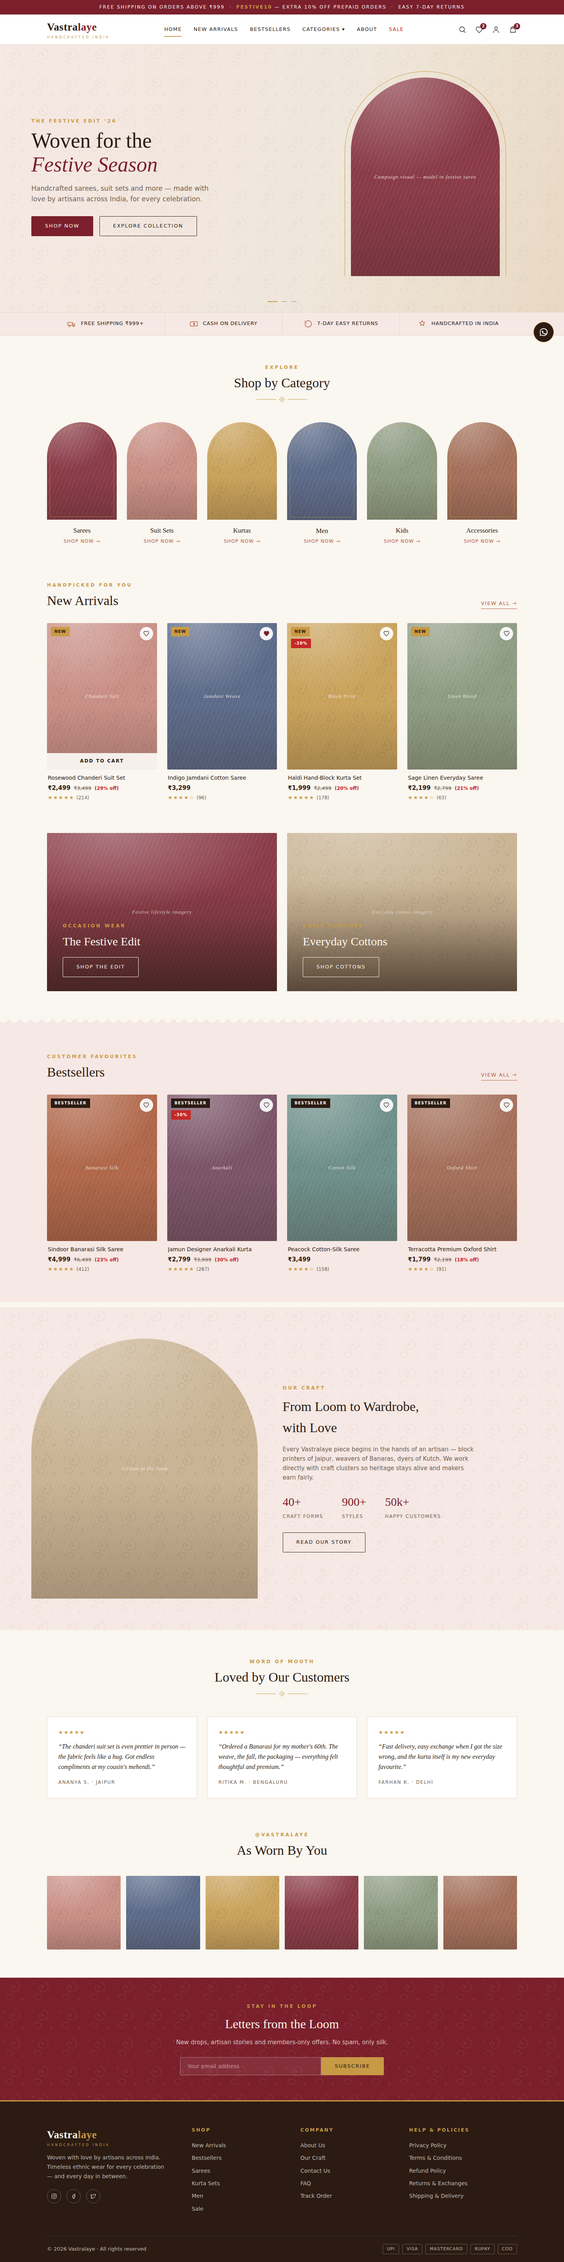
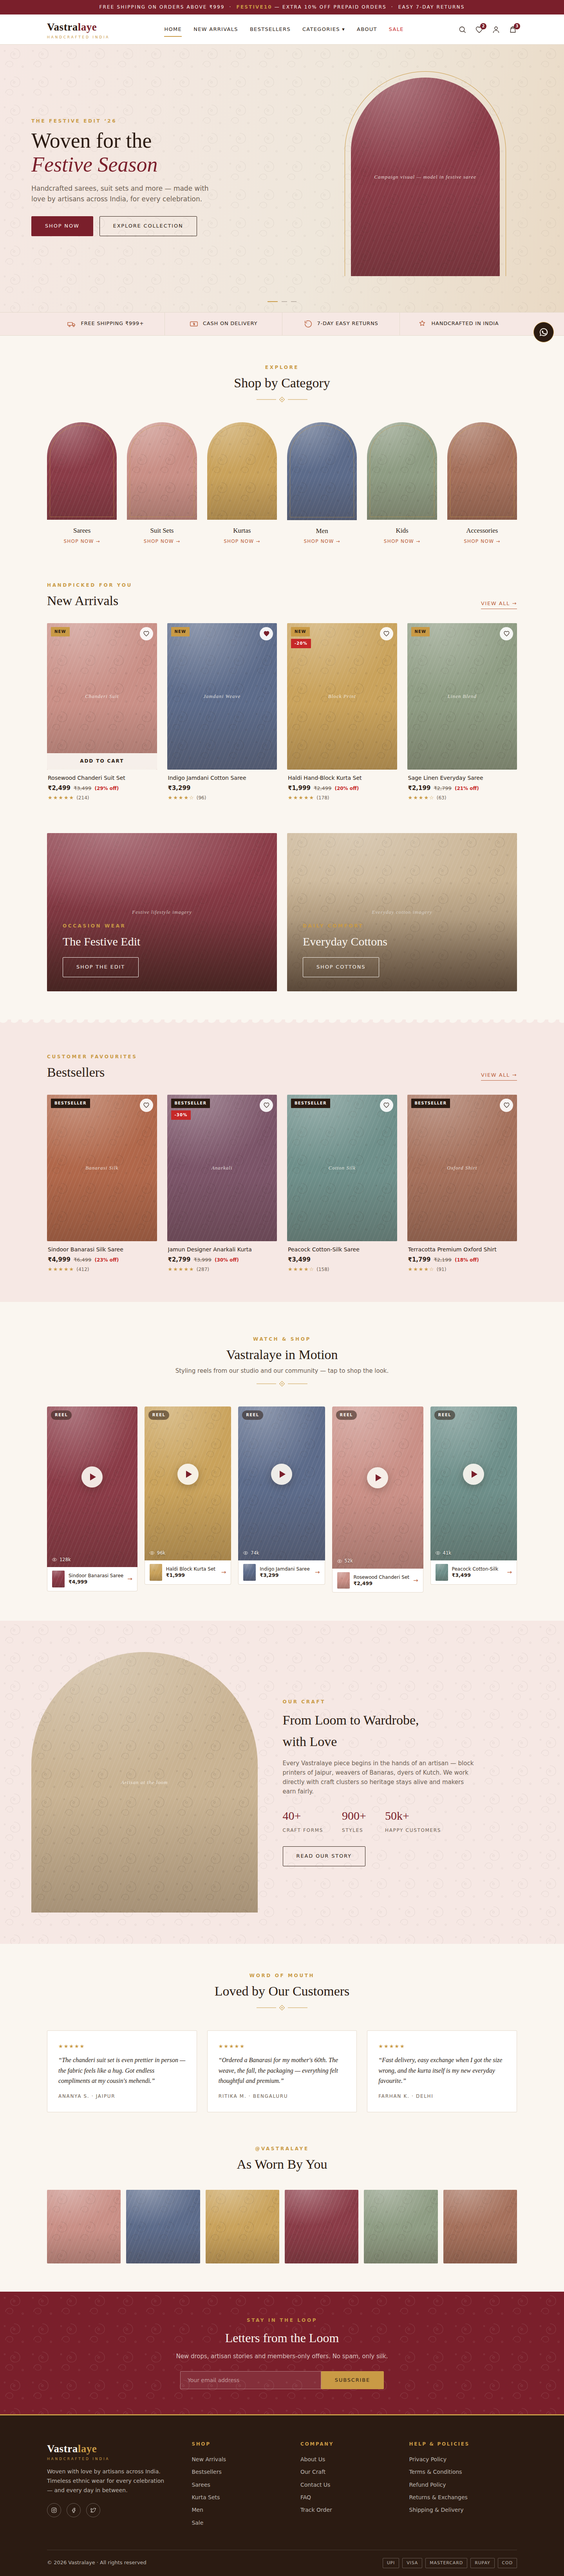
Add shoppable video reels to home and related product videos to PDP design
- design.md: add ReelsSection component spec (9:16 reel cards with play
  button, view count and shoppable product strip; inline video lightbox;
  posters/clips served from the backend's existing product_videos
  storage), insert the reels row into the homepage blueprint, add the
  product-video gallery thumb and the "Watch It Styled" related-video
  strip to the PDP flow, and extend the asset checklist and Phase 2/4
  checklists accordingly.
- Mockups: new reel-card/play-button/video-thumb styles; "Vastralaye in
  Motion" reels section on the homepage; video thumbnail in the PDP
  gallery rail and a "Watch It Styled" video strip before related
  products; refreshed home, product-detail and mobile-home screenshots.

Claude-Session: https://claude.ai/code/session_01MQ194LTsZXuaeNecGoNMBi

diff --git a/design/mockups/pages/home.html b/design/mockups/pages/home.html
@@ -183,6 +183,60 @@
 </section>
 <div class="scallop"></div>
 
+<!-- SHOPPABLE REELS -->
+<section class="section">
+  <div class="container">
+    <div class="section-head">
+      <span class="overline">Watch &amp; shop</span>
+      <h2>Vastralaye in Motion</h2>
+      <p class="sub">Styling reels from our studio and our community — tap to shop the look.</p>
+      <svg class="ornament" viewBox="0 0 130 14" width="130" height="14"><g fill="none" stroke="#C99A45"><line x1="0" y1="7" x2="50" y2="7"/><line x1="80" y1="7" x2="130" y2="7"/><rect x="60.5" y="2.5" width="9" height="9" transform="rotate(45 65 7)"/></g><circle cx="65" cy="7" r="1.5" fill="#C99A45"/></svg>
+    </div>
+    <div class="reel-row">
+      <div class="reel-card">
+        <div class="photo tone-wine reel-media">
+          <span class="reel-chip">Reel</span>
+          <span class="play-btn"></span>
+          <span class="reel-views"><svg viewBox="0 0 24 24"><path d="M2 12s3.5-6.5 10-6.5S22 12 22 12s-3.5 6.5-10 6.5S2 12 2 12z"/><circle cx="12" cy="12" r="2.6"/></svg>128k</span>
+        </div>
+        <div class="reel-prod"><div class="photo tone-wine mini"></div><div class="t">Sindoor Banarasi Saree<b>₹4,999</b></div><span class="go">→</span></div>
+      </div>
+      <div class="reel-card">
+        <div class="photo tone-mustard reel-media">
+          <span class="reel-chip">Reel</span>
+          <span class="play-btn"></span>
+          <span class="reel-views"><svg viewBox="0 0 24 24"><path d="M2 12s3.5-6.5 10-6.5S22 12 22 12s-3.5 6.5-10 6.5S2 12 2 12z"/><circle cx="12" cy="12" r="2.6"/></svg>96k</span>
+        </div>
+        <div class="reel-prod"><div class="photo tone-mustard mini"></div><div class="t">Haldi Block Kurta Set<b>₹1,999</b></div><span class="go">→</span></div>
+      </div>
+      <div class="reel-card">
+        <div class="photo tone-indigo reel-media">
+          <span class="reel-chip">Reel</span>
+          <span class="play-btn"></span>
+          <span class="reel-views"><svg viewBox="0 0 24 24"><path d="M2 12s3.5-6.5 10-6.5S22 12 22 12s-3.5 6.5-10 6.5S2 12 2 12z"/><circle cx="12" cy="12" r="2.6"/></svg>74k</span>
+        </div>
+        <div class="reel-prod"><div class="photo tone-indigo mini"></div><div class="t">Indigo Jamdani Saree<b>₹3,299</b></div><span class="go">→</span></div>
+      </div>
+      <div class="reel-card">
+        <div class="photo tone-rose reel-media">
+          <span class="reel-chip">Reel</span>
+          <span class="play-btn"></span>
+          <span class="reel-views"><svg viewBox="0 0 24 24"><path d="M2 12s3.5-6.5 10-6.5S22 12 22 12s-3.5 6.5-10 6.5S2 12 2 12z"/><circle cx="12" cy="12" r="2.6"/></svg>52k</span>
+        </div>
+        <div class="reel-prod"><div class="photo tone-rose mini"></div><div class="t">Rosewood Chanderi Set<b>₹2,499</b></div><span class="go">→</span></div>
+      </div>
+      <div class="reel-card">
+        <div class="photo tone-teal reel-media">
+          <span class="reel-chip">Reel</span>
+          <span class="play-btn"></span>
+          <span class="reel-views"><svg viewBox="0 0 24 24"><path d="M2 12s3.5-6.5 10-6.5S22 12 22 12s-3.5 6.5-10 6.5S2 12 2 12z"/><circle cx="12" cy="12" r="2.6"/></svg>41k</span>
+        </div>
+        <div class="reel-prod"><div class="photo tone-teal mini"></div><div class="t">Peacock Cotton-Silk<b>₹3,499</b></div><span class="go">→</span></div>
+      </div>
+    </div>
+  </div>
+</section>
+
 <!-- BRAND STORY -->
 <section class="story">
   <div class="container story-inner">

diff --git a/design/mockups/styles.css b/design/mockups/styles.css
@@ -206,6 +206,54 @@ ul { list-style: none; }
 .stars { color: var(--gold); font-size: 13px; letter-spacing: 2px; margin-top: 3px; }
 .stars .cnt { color: var(--muted); font-size: 12px; letter-spacing: 0; margin-left: 5px; }
 
+/* ---------- Shoppable video reels ---------- */
+.reel-row { display: grid; grid-template-columns: repeat(5,1fr); gap: 18px; }
+.reel-row.cols-4 { grid-template-columns: repeat(4,1fr); gap: 22px; }
+.reel-card { position: relative; }
+.reel-media { aspect-ratio: 9/16; border-radius: 4px 4px 0 0; }
+.play-btn {
+  position: absolute; left: 50%; top: 44%; transform: translate(-50%,-50%); z-index: 2;
+  width: 54px; height: 54px; border-radius: 50%; background: rgba(250,246,240,.92);
+  display: flex; align-items: center; justify-content: center;
+  box-shadow: 0 6px 22px rgba(43,27,18,.28);
+}
+.play-btn::after {
+  content: ""; margin-left: 5px;
+  border-left: 15px solid var(--maroon); border-top: 9px solid transparent; border-bottom: 9px solid transparent;
+}
+.reel-chip {
+  position: absolute; top: 10px; left: 10px; z-index: 2;
+  background: rgba(43,27,18,.55); color: var(--ivory);
+  font-size: 10px; font-weight: 600; letter-spacing: .14em; text-transform: uppercase;
+  padding: 4px 10px; border-radius: 999px;
+}
+.reel-views {
+  position: absolute; left: 12px; bottom: 10px; z-index: 2; color: var(--ivory);
+  font-size: 11.5px; display: flex; gap: 6px; align-items: center; text-shadow: 0 1px 4px rgba(0,0,0,.45);
+}
+.reel-views svg { width: 14px; height: 14px; stroke: var(--ivory); stroke-width: 1.6; fill: none; }
+.reel-prod {
+  display: flex; gap: 10px; align-items: center; background: var(--surface);
+  border: 1px solid var(--border); border-top: none; border-radius: 0 0 4px 4px; padding: 9px 12px;
+}
+.reel-prod .mini { width: 32px; aspect-ratio: 3/4; flex: none; }
+.reel-prod .t { font-size: 12px; line-height: 1.35; white-space: nowrap; overflow: hidden; text-overflow: ellipsis; }
+.reel-prod .t b { display: block; font-size: 12.5px; }
+.reel-prod .go { margin-left: auto; color: var(--terracotta); font-size: 15px; }
+
+/* Video thumb in PDP gallery */
+.vthumb { position: relative; }
+.vthumb .mini-play {
+  position: absolute; inset: 0; z-index: 2; display: flex; align-items: center; justify-content: center;
+}
+.vthumb .mini-play i {
+  width: 26px; height: 26px; border-radius: 50%; background: rgba(250,246,240,.92); position: relative; display: block;
+}
+.vthumb .mini-play i::after {
+  content: ""; position: absolute; left: 10px; top: 7px;
+  border-left: 9px solid var(--maroon); border-top: 6px solid transparent; border-bottom: 6px solid transparent;
+}
+
 /* ---------- Editorial banners ---------- */
 .edit-grid { display: grid; grid-template-columns: 1fr 1fr; gap: 26px; }
 .edit-card { position: relative; overflow: hidden; border-radius: 2px; }
@@ -465,6 +513,8 @@ li.on .cbox::after { content: "✓"; color: var(--ivory); font-size: 10px; posit
   .prod-grid-4, .prod-grid-3 { grid-template-columns: 1fr 1fr; gap: 18px 12px; }
   .edit-grid, .testi-grid, .story-inner { grid-template-columns: 1fr; }
   .insta-grid { grid-template-columns: repeat(3,1fr); }
+  .reel-row, .reel-row.cols-4 { display: flex; overflow-x: auto; gap: 12px; padding-bottom: 6px; }
+  .reel-card { min-width: 56%; }
   .section { padding: 46px 0; }
   .section-head h2 { font-size: 26px; }
   .footer-inner { grid-template-columns: 1fr; gap: 30px; padding: 44px 0 30px; }

diff --git a/design/mockups/pages/product-detail.html b/design/mockups/pages/product-detail.html
@@ -8,6 +8,7 @@
       <div class="photo tone-rust"></div>
       <div class="photo tone-plum"></div>
       <div class="photo tone-clay"></div>
+      <div class="photo tone-wine vthumb"><span class="mini-play"><i></i></span></div>
     </div>
     <div class="main photo tone-wine"><span class="ph-label">Product photography — full drape</span></div>
   </div>
@@ -73,6 +74,53 @@
     <span class="stars">★★★★☆</span>
     <div><span class="who">Shalini T.</span><span class="when">Verified buyer · 28 Dec 2025</span></div>
     <p>Colour is exactly as shown. Took one star off because delivery took a day longer than promised, but the saree itself is gorgeous.</p>
+  </div>
+</section>
+
+<!-- RELATED VIDEOS -->
+<section class="section bg-blush" style="padding:56px 0">
+  <div class="container">
+    <div class="head-row">
+      <div class="section-head">
+        <span class="overline">Watch &amp; shop</span>
+        <h2>Watch It Styled</h2>
+      </div>
+      <a class="link-arrow" href="#">All reels →</a>
+    </div>
+    <div class="reel-row cols-4">
+      <div class="reel-card">
+        <div class="photo tone-wine reel-media">
+          <span class="reel-chip">Reel</span>
+          <span class="play-btn"></span>
+          <span class="reel-views"><svg viewBox="0 0 24 24"><path d="M2 12s3.5-6.5 10-6.5S22 12 22 12s-3.5 6.5-10 6.5S2 12 2 12z"/><circle cx="12" cy="12" r="2.6"/></svg>128k</span>
+        </div>
+        <div class="reel-prod"><div class="photo tone-wine mini"></div><div class="t">3 ways to drape this saree<b>₹4,999</b></div><span class="go">→</span></div>
+      </div>
+      <div class="reel-card">
+        <div class="photo tone-rust reel-media">
+          <span class="reel-chip">Video</span>
+          <span class="play-btn"></span>
+          <span class="reel-views"><svg viewBox="0 0 24 24"><path d="M2 12s3.5-6.5 10-6.5S22 12 22 12s-3.5 6.5-10 6.5S2 12 2 12z"/><circle cx="12" cy="12" r="2.6"/></svg>67k</span>
+        </div>
+        <div class="reel-prod"><div class="photo tone-rust mini"></div><div class="t">Fabric &amp; zari close-up<b>₹4,999</b></div><span class="go">→</span></div>
+      </div>
+      <div class="reel-card">
+        <div class="photo tone-plum reel-media">
+          <span class="reel-chip">Reel</span>
+          <span class="play-btn"></span>
+          <span class="reel-views"><svg viewBox="0 0 24 24"><path d="M2 12s3.5-6.5 10-6.5S22 12 22 12s-3.5 6.5-10 6.5S2 12 2 12z"/><circle cx="12" cy="12" r="2.6"/></svg>39k</span>
+        </div>
+        <div class="reel-prod"><div class="photo tone-plum mini"></div><div class="t">Styled with Kanjivaram<b>₹5,899</b></div><span class="go">→</span></div>
+      </div>
+      <div class="reel-card">
+        <div class="photo tone-mustard reel-media">
+          <span class="reel-chip">Customer</span>
+          <span class="play-btn"></span>
+          <span class="reel-views"><svg viewBox="0 0 24 24"><path d="M2 12s3.5-6.5 10-6.5S22 12 22 12s-3.5 6.5-10 6.5S2 12 2 12z"/><circle cx="12" cy="12" r="2.6"/></svg>21k</span>
+        </div>
+        <div class="reel-prod"><div class="photo tone-mustard mini"></div><div class="t">Worn at a mehendi<b>₹1,999</b></div><span class="go">→</span></div>
+      </div>
+    </div>
   </div>
 </section>
 

diff --git a/design.md b/design.md
@@ -48,6 +48,7 @@ What the reference sites do, and what we adopt:
 | Instagram / UGC grid | ✅ | ✅ | ✅ new section |
 | Newsletter band | ✅ | ✅ | ✅ new section |
 | Product card: 3:4 image, hover image‑swap, quick add | ✅ subtle | ✅ + % badges & stars | ✅ combined |
+| Shoppable video reels (watch & shop) | ✅ | ✅ (video commerce widgets) | ✅ home reels row + PDP video strip |
 | Serif display headings + clean sans body | ✅ | ✅ | ✅ Fraunces + Jost |
 | Scallop/arch/block‑print ornament | ➖ | ✅ | ✅ used sparingly |
 | Dark, link‑rich footer + payment icons | ✅ | ✅ | ✅ espresso footer |
@@ -237,6 +238,7 @@ Thin band directly under the hero, blush bg, 4 items (2×2 on mobile): `Free Shi
 | Component | Content |
 |---|---|
 | `BrandStory.tsx` | Split band on blush + faint block‑print bg: image left (artisan/detail shot), right: overline `OUR CRAFT`, serif H2, 2 short paragraphs, 3 inline stats in serif (e.g. `40+ crafts · 900+ styles · 50k+ customers`), `outline` CTA → `/about` |
+| `ReelsSection.tsx` | **Shoppable video reels** — overline `WATCH & SHOP`, H2 "Vastralaye in Motion"; horizontal row of 9:16 reel cards (5 desktop / peek-scroll mobile). Each card: video poster with play button + "Reel" chip + view count, and an attached mini product strip (thumb, name, price, →) linking to the PDP. Tap opens an inline `<video>` lightbox (muted autoplay, tap for sound). Serve `.mp4` posters+clips from the backend's existing `/static/uploads/product_videos/` storage; lazy-load posters, never autoplay in the row |
 | `Testimonials.tsx` | Carousel of quote cards: 5 gold stars, 2–3 line quote (serif italic), customer name + city; ivory cards, 1px border; static seed data first |
 | `InstagramGrid.tsx` | Overline `@vastralaye` + H2 "As Worn By You"; 6 square tiles (hover: espresso scrim + Instagram glyph) linking to the profile; static images first |
 | `NewsletterBand.tsx` | Maroon band, ivory block‑print pattern at 5%: serif H2 "Stay in the Loop", sub‑line, email input + gold `Subscribe` button (front‑end only; toast on submit) |
@@ -264,9 +266,9 @@ Assemble per §6.1; **remove** the logged‑in "My Account" card block (those li
 
 ### 5.11 Product detail — `src/pages/ProductDetailPage.tsx`
 
-- Layout: **left** vertical thumbnail rail + main 3:4 image (click zoom / pinch on mobile, swipeable); **right** sticky info column:
+- Layout: **left** vertical thumbnail rail + main 3:4 image (click zoom / pinch on mobile, swipeable); the rail's **last thumb is the product video** (poster + small play badge) when the product has one — selecting it plays the video in the main frame (muted, loop, tap for sound); **right** sticky info column:
   title (serif 26–30px) → rating link → price block (final + struck MRP + % off) → tax/shipping microcopy → **size selector as square outline swatches** (selected = espresso fill) + "Size guide" link → quantity stepper → full‑width `primary` ADD TO CART + heart `outline` square → trust icon row (COD · Easy returns · Secure payments) → accordions (Description · Fabric & Care · Shipping & Returns) instead of tabs.
-- Below: `ReviewSection` restyled (summary: big serif average + gold star bars; review cards flat with 1px dividers) → "You may also like" `ProductCarousel`.
+- Below: `ReviewSection` restyled (summary: big serif average + gold star bars; review cards flat with 1px dividers) → **"Watch It Styled" related-video strip** (blush band reusing the `ReelsSection` card: styling reels, fabric close-ups and customer videos for this product, each with its shoppable product strip) → "You may also like" `ProductCarousel`.
 - **Mobile:** sticky bottom bar with price + ADD TO CART after scrolling past the fold.
 
 ### 5.12 Cart, wishlist, checkout, auth, account
@@ -312,16 +314,17 @@ Assemble per §6.1; **remove** the logged‑in "My Account" card block (those li
 06 New Arrivals carousel                          — ivory
 07 Editorial banners       (2-up: Festive / Everyday)
 08 Bestsellers carousel                           — blush + scallop edges
-09 Brand story band        (craft + stats)        — blush/pattern
-10 Testimonials carousel                          — ivory
-11 Instagram / UGC grid                           — ivory
-12 Newsletter band                                — maroon
-13 Footer                                         — espresso
+09 Shoppable reels         ("Vastralaye in Motion", 9:16 video cards)
+10 Brand story band        (craft + stats)        — blush/pattern
+11 Testimonials carousel                          — ivory
+12 Instagram / UGC grid                           — ivory
+13 Newsletter band                                — maroon
+14 Footer                                         — espresso
 ```
 
 ### 6.2 Listing page: breadcrumb → serif title + count → toolbar → sidebar (desktop) / drawer (mobile) → 2–4 col grid → pagination ("Load more" `outline` button preferred) → footer.
 
-### 6.3 PDP: breadcrumb → gallery + sticky buy column → accordions → reviews → related carousel → (mobile) sticky ATC bar.
+### 6.3 PDP: breadcrumb → gallery (last thumb = product video) + sticky buy column → accordions → reviews → "Watch It Styled" video strip → related carousel → (mobile) sticky ATC bar.
 
 ### 6.4 Checkout/auth pages stay **distraction‑light**: header simplified (logo + secure badge), no mega menu needed.
 
@@ -360,6 +363,7 @@ To be produced/collected before Phase 2 (all our own or licensed — nothing fro
 - [ ] Category images (one per live category), consistent warm background, subject centered for the **arch crop** (min 900×1200).
 - [ ] 2 editorial banner images (1200×1500) + 1 seasonal campaign banner (2400×1000).
 - [ ] Brand‑story image (artisan/fabric detail) + 6 UGC squares (≥800×800).
+- [ ] **Reel videos:** 5+ vertical 9:16 clips (15–30s, ≤8MB `.mp4`, muted-friendly) with poster frames — styling reels, fabric close‑ups, customer videos; per‑product videos upload to the backend's existing `/static/uploads/product_videos/`.
 - [ ] Block‑print SVG tile + ornament SVG (commission or draw in‑house).
 - [ ] Payment method icon set (SVG, monochrome ivory).
 - [ ] Every product ideally has ≥2 images (enables card hover‑swap; card must degrade gracefully with 1).
@@ -390,6 +394,7 @@ Ship phase‑by‑phase — the site stays usable after every phase. Each phase 
 - [ ] `CategorySection.tsx` arch cards
 - [ ] `ProductCarousel` extraction + New Arrivals/Bestsellers sections
 - [ ] `PromoSection.tsx` rewrite + re‑enable
+- [ ] New `ReelsSection` (shoppable reels row + video lightbox)
 - [ ] New `BrandStory` / `Testimonials` / `InstagramGrid` / `NewsletterBand`
 - [ ] `Index.tsx` reassembled per §6.1 (account card block removed)
 
@@ -400,7 +405,8 @@ Ship phase‑by‑phase — the site stays usable after every phase. Each phase 
 - [ ] Skeletons updated to new ratios
 
 ### Phase 4 — Product detail *(≈ 1–2 days)*
-- [ ] Gallery (thumb rail, zoom, swipe) + sticky buy column
+- [ ] Gallery (thumb rail, zoom, swipe) + sticky buy column; product-video thumb plays in main frame
+- [ ] "Watch It Styled" related-video strip (reuse `ReelsSection` card)
 - [ ] Size swatches, qty stepper, trust row, accordions
 - [ ] `ReviewSection` restyle; related‑products carousel
 - [ ] Mobile sticky ATC bar
